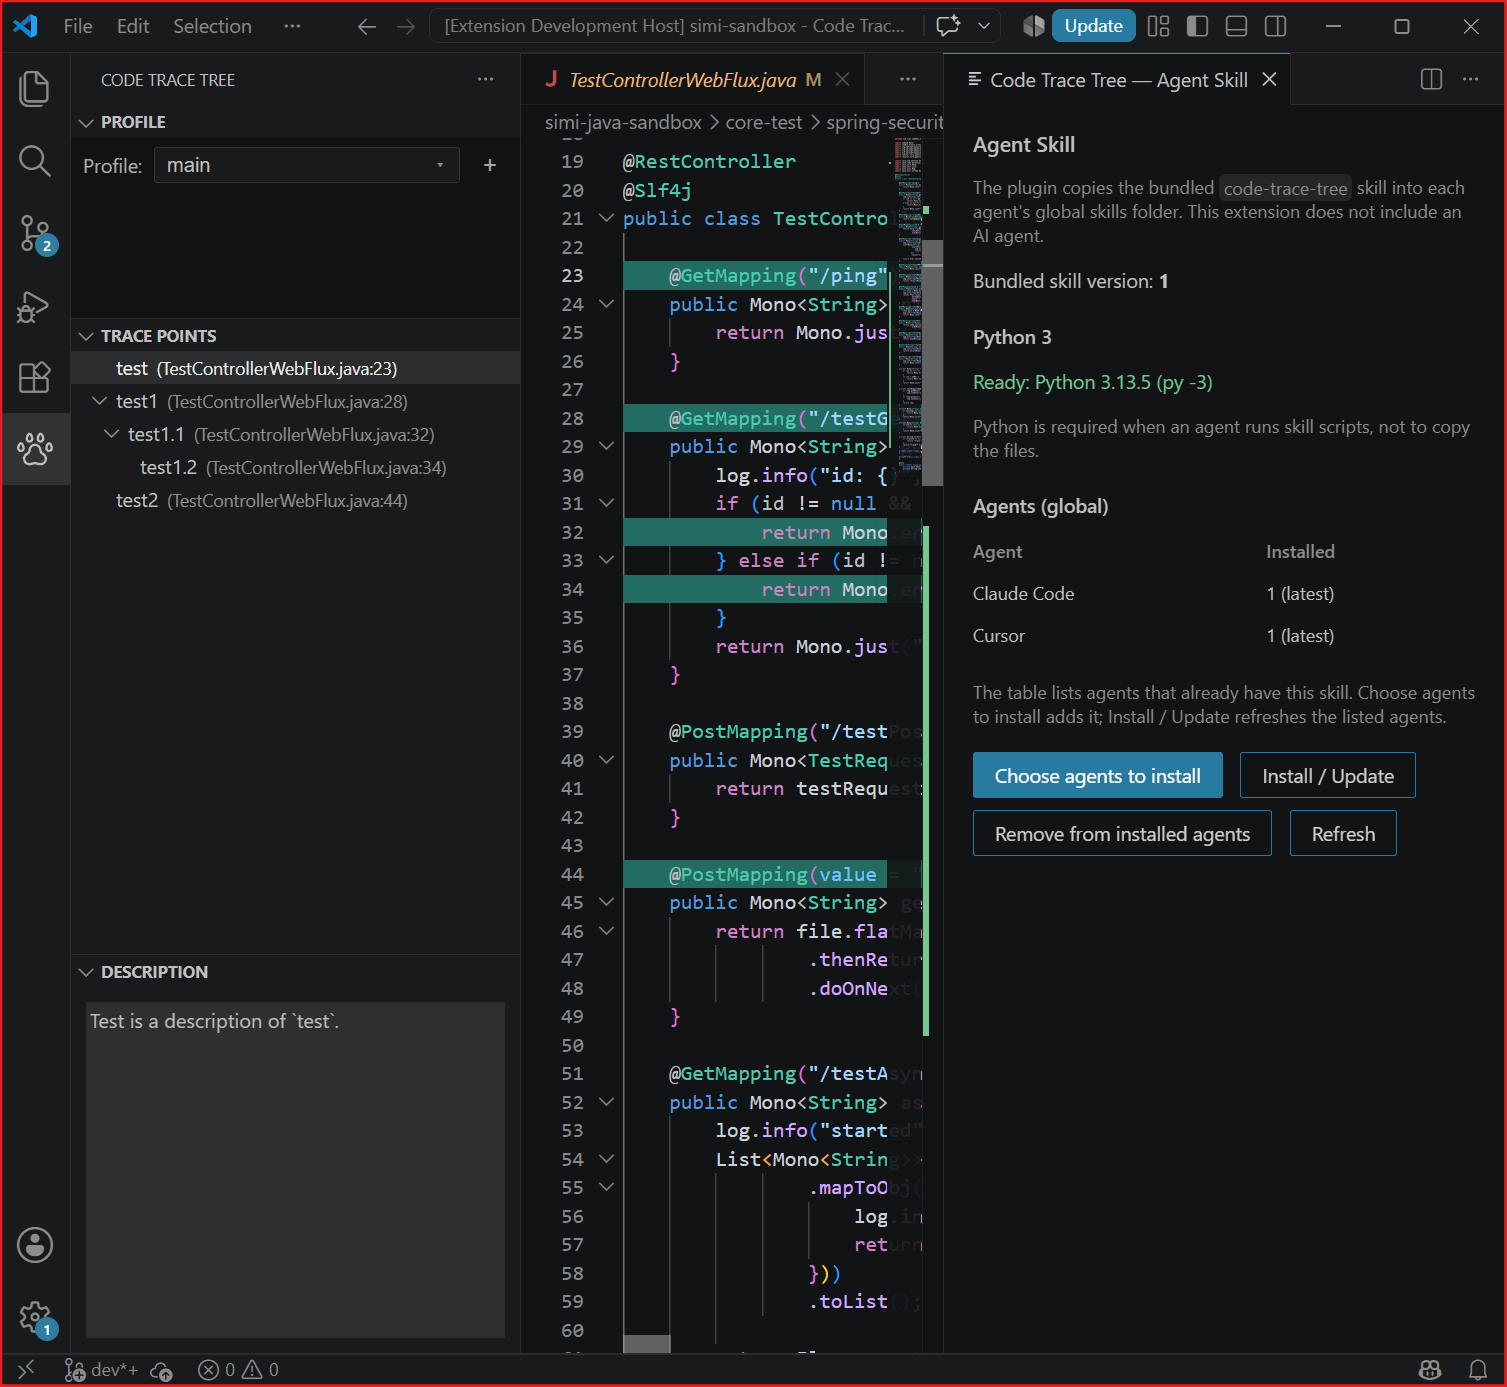
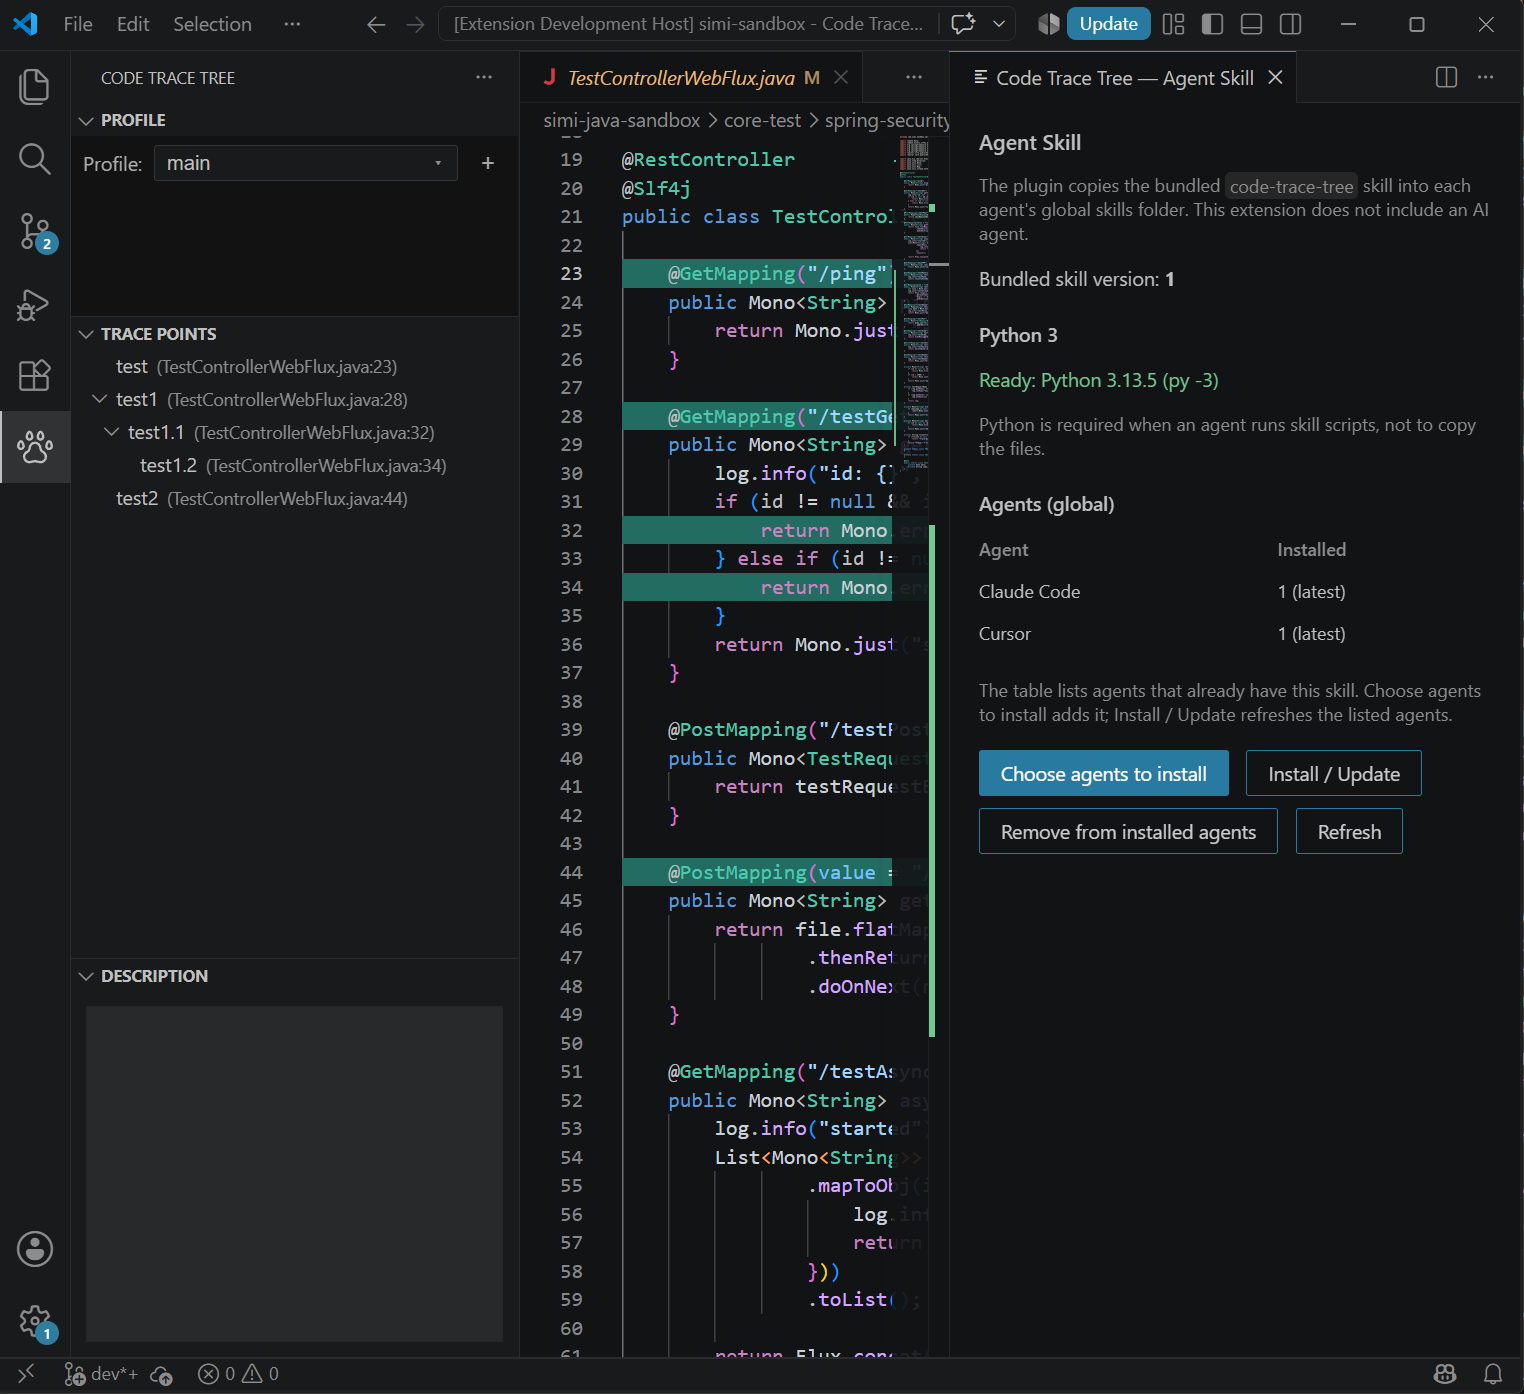
[Skill] feat: skip the skill notice after dismiss or opening the page

diff --git a/main/src/commands/openAgentSkill.ts b/main/src/commands/openAgentSkill.ts
@@ -51,15 +51,15 @@ export function maybeNotifyAgentSkill(
   void vscode.window
     .showInformationMessage(
       `${verb} the Code Trace Tree agent skill (v${bundled}) for your coding agents.`,
-      'Install…',
-      'Later'
+      'Install',
+      'Dismiss'
     )
     .then((choice) => {
-      if (choice === 'Later') {
+      if (choice === 'Dismiss') {
         upsertAgentSkillNotice(bundled, 'dismissed', service.getAdvancedSettings())
         return
       }
-      if (choice === 'Install…') {
+      if (choice === 'Install') {
         openAgentSkillPanel(context, service)
       }
     })
@@ -69,6 +69,10 @@ function openAgentSkillPanel(
   context: vscode.ExtensionContext,
   service: TracePointService
 ) {
+  const bundled = bundledSkillVersion(context.extensionPath)
+  if (bundled) {
+    upsertAgentSkillNotice(bundled, 'opened', service.getAdvancedSettings())
+  }
   if (panel) {
     panel.reveal(vscode.ViewColumn.Beside)
     postState(panel, context)
@@ -89,11 +93,11 @@ function openAgentSkillPanel(
         return
       }
       if (msg?.command === 'choose') {
-        void runInstall(context, service, 'choose')
+        void runInstall(context, 'choose')
         return
       }
       if (msg?.command === 'install') {
-        void runInstall(context, service, 'table')
+        void runInstall(context, 'table')
         return
       }
       if (msg?.command === 'remove') {
@@ -115,7 +119,6 @@ function openAgentSkillPanel(
 
 async function runInstall(
   context: vscode.ExtensionContext,
-  service: TracePointService,
   mode: 'table' | 'choose'
 ): Promise<void> {
   const bundledDir = resolveBundledSkillDir(context.extensionPath)
@@ -155,7 +158,6 @@ async function runInstall(
   }
   try {
     const installed = installSkillForAgents(bundledDir, ids)
-    upsertAgentSkillNotice(bundled, 'installed', service.getAdvancedSettings())
     vscode.window.showInformationMessage(
       `Installed code-trace-tree v${bundled} for ${installed.map((i) => labelFor(i.id)).join(', ')}.`
     )

diff --git a/main/test/agentSkill.test.ts b/main/test/agentSkill.test.ts
@@ -135,5 +135,18 @@ describe('global settings xml skill notice', () => {
     assert.strictEqual(parsed?.highlightLineBackgroundDark, '#236C60')
     assert.strictEqual(parsed?.agentSkillVersion, '1.3.5')
     assert.strictEqual(parsed?.agentSkillNoticeStatus, 'dismissed')
+    const openedXml = serializeGlobalSettingsXml({
+      highlightLineBackgroundLight: '#FFFFC8',
+      highlightLineBackgroundDark: '#236C60',
+      agentSkillVersion: '1',
+      agentSkillNoticeStatus: 'opened'
+    })
+    assert.strictEqual(parseGlobalSettingsXml(openedXml)?.agentSkillNoticeStatus, 'opened')
+    assert.strictEqual(
+      parseGlobalSettingsXml(
+        openedXml.replace('<noticeStatus>opened</noticeStatus>', '<noticeStatus>installed</noticeStatus>')
+      )?.agentSkillNoticeStatus,
+      'opened'
+    )
   })
 })

diff --git a/main/src/storage/globalSettingsXml.ts b/main/src/storage/globalSettingsXml.ts
@@ -56,7 +56,11 @@ export function parseGlobalSettingsXml(xml: string): GlobalSettingsFile | undefi
   const version = xmlText(skill?.version)?.trim() || undefined
   const statusRaw = xmlText(skill?.noticeStatus)?.trim()
   const status: AgentSkillNoticeStatus | undefined =
-    statusRaw === 'dismissed' || statusRaw === 'installed' ? statusRaw : undefined
+    statusRaw === 'dismissed' || statusRaw === 'opened'
+      ? statusRaw
+      : statusRaw === 'installed'
+        ? 'opened'
+        : undefined
   return {
     highlightLineBackgroundLight: colors.highlightLineBackgroundLight,
     highlightLineBackgroundDark: colors.highlightLineBackgroundDark,

diff --git a/main/src/skill/agentSkill.ts b/main/src/skill/agentSkill.ts
@@ -10,7 +10,7 @@ import * as path from 'path'
 
 export const SKILL_FOLDER_NAME = 'code-trace-tree'
 
-export type AgentSkillNoticeStatus = 'dismissed' | 'installed'
+export type AgentSkillNoticeStatus = 'dismissed' | 'opened'
 
 export type AgentSkillState = 'missing' | 'outdated' | 'latest' | 'newer'
 
@@ -290,6 +290,7 @@ export function scanAgentStatuses(
   })
 }
 
+/** True when a detected agent is missing/outdated and this bundled version has not been dismissed or opened. */
 export function shouldOfferSkillNotice(
   bundledVersion: string | undefined,
   statuses: AgentSkillStatus[],

diff --git a/main/src/TracePointService.ts b/main/src/TracePointService.ts
@@ -395,7 +395,7 @@ export class TracePointService {
     return { ...this._advancedSettings }
   }
 
-  /** Last bundled skill version the user dismissed or installed from the plugin. */
+  /** Last bundled skill version whose Agent Skill notice was dismissed or whose status page was opened. */
   getAgentSkillNoticeVersion(): string | undefined {
     return readGlobalSettingsFile()?.agentSkillVersion
   }

diff --git a/skills/code-trace-tree/references/data-format.md b/skills/code-trace-tree/references/data-format.md
@@ -62,12 +62,12 @@ Read path: `settings.xml` if present; else this project’s leftover `<advancedS
   </highlightLineBackground>
   <agentSkill>
     <version>1</version>
-    <noticeStatus>installed</noticeStatus>
+    <noticeStatus>opened</noticeStatus>
   </agentSkill>
 </settings>
 ```
 
-`agentSkill` is optional. `version` is the last bundled skill version the user dismissed (`noticeStatus` `dismissed`) or installed from the IDE (`installed`). Skill versions are positive integers (`1`, `2`, …). Missing or empty counts as `0`. A newer bundled version may prompt again.
+`agentSkill` is optional. `version` is the last bundled skill version whose notice the user dismissed (`noticeStatus` `dismissed`) or whose Agent Skill page they opened (`opened`). Either status skips the notice for that version. Skill versions are positive integers (`1`, `2`, …). Missing or empty counts as `0`. A newer bundled version prompts again.
 
 Do not treat `settings.xml` as a project document when scanning `*.xml`. After `settings.xml` exists, ignore leftover `<advancedSettings>` in project XML.
 

diff --git a/main/CHANGELOG.md b/main/CHANGELOG.md
@@ -1,7 +1,7 @@
 ## v1.3.6
 
 - Bundle the Agent Skill in the extension; toolbar **Agent Skill** opens a status page to install or update it per coding agent
-- Prompt once per bundled skill version when a detected agent is missing or outdated
+- Prompt once per bundled skill version when a detected agent is missing or outdated; **Dismiss** or opening the status page skips it until the next skill version
 - Choose agents to install, Install / Update listed agents, or remove the skill from them
 - README: install the skill from the toolbar; ZIP and `npx` stay on the skill repo
 

diff --git a/README.md b/README.md
@@ -120,8 +120,8 @@
 </p>
 <p>
   On first project open, if a detected agent is missing the skill or is behind the bundled
-  version, the extension shows a notification (once per skill version; <b>Later</b> or a
-  successful install is remembered in global <code>settings.xml</code>).
+  version, the extension shows a notification (once per skill version; <b>Dismiss</b> or
+  opening the status page is remembered in global <code>settings.xml</code>).
 </p>
 <p>
   ZIP and <code>npx skills</code> (including a project-local copy) remain on

diff --git a/skills/code-trace-tree/SKILL.md b/skills/code-trace-tree/SKILL.md
@@ -34,6 +34,9 @@ Python commands by absolute path.
 Open `scripts/` or `references/` only if you hit a **critical problem** while using the skill
 (script missing or crashing, storage corrupt, or an error this file does not cover).
 
+**Chat replies:** Script stdout and tree JSON are long. Do not paste them into the user-visible
+message. Summarize the result (created/skipped counts, names, errors).
+
 ## Skill scripts location
 
 Helper scripts live under `<Agent Skill Path>/code-trace-tree/scripts/`.
